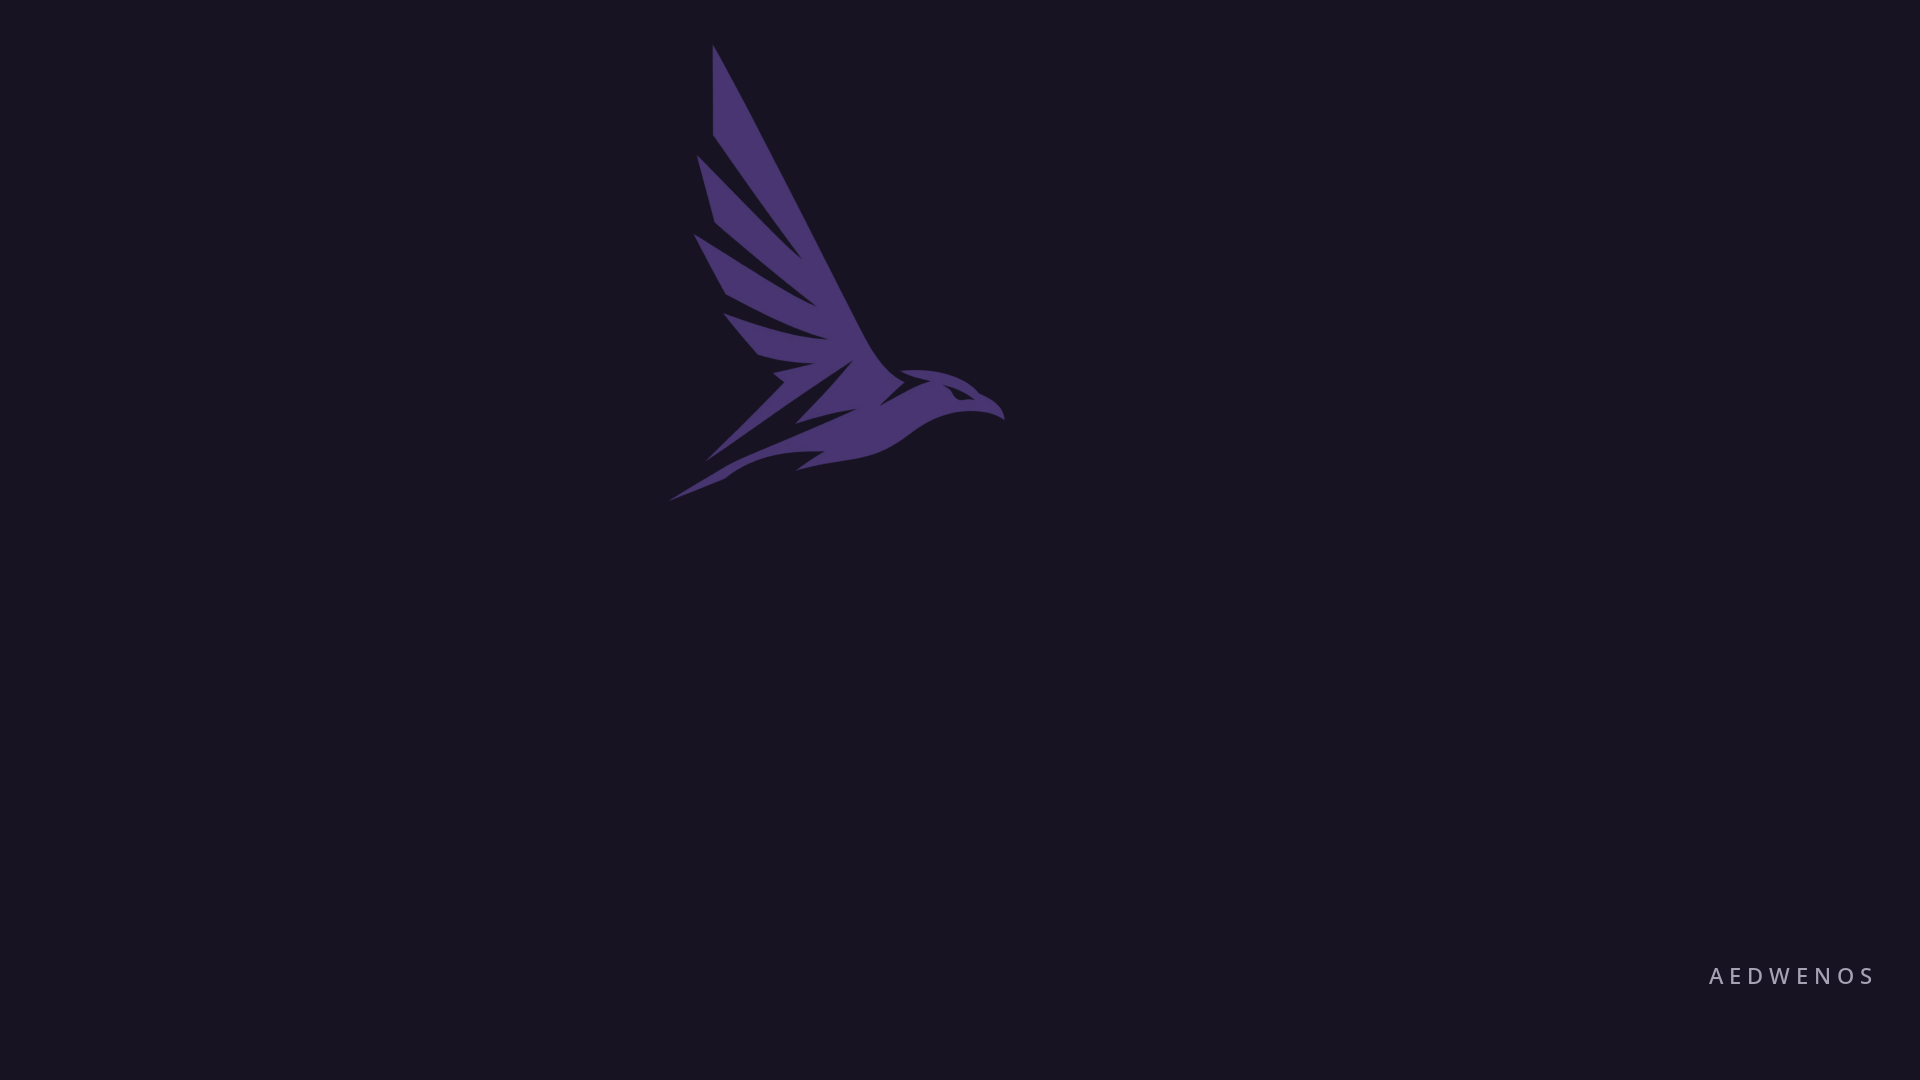
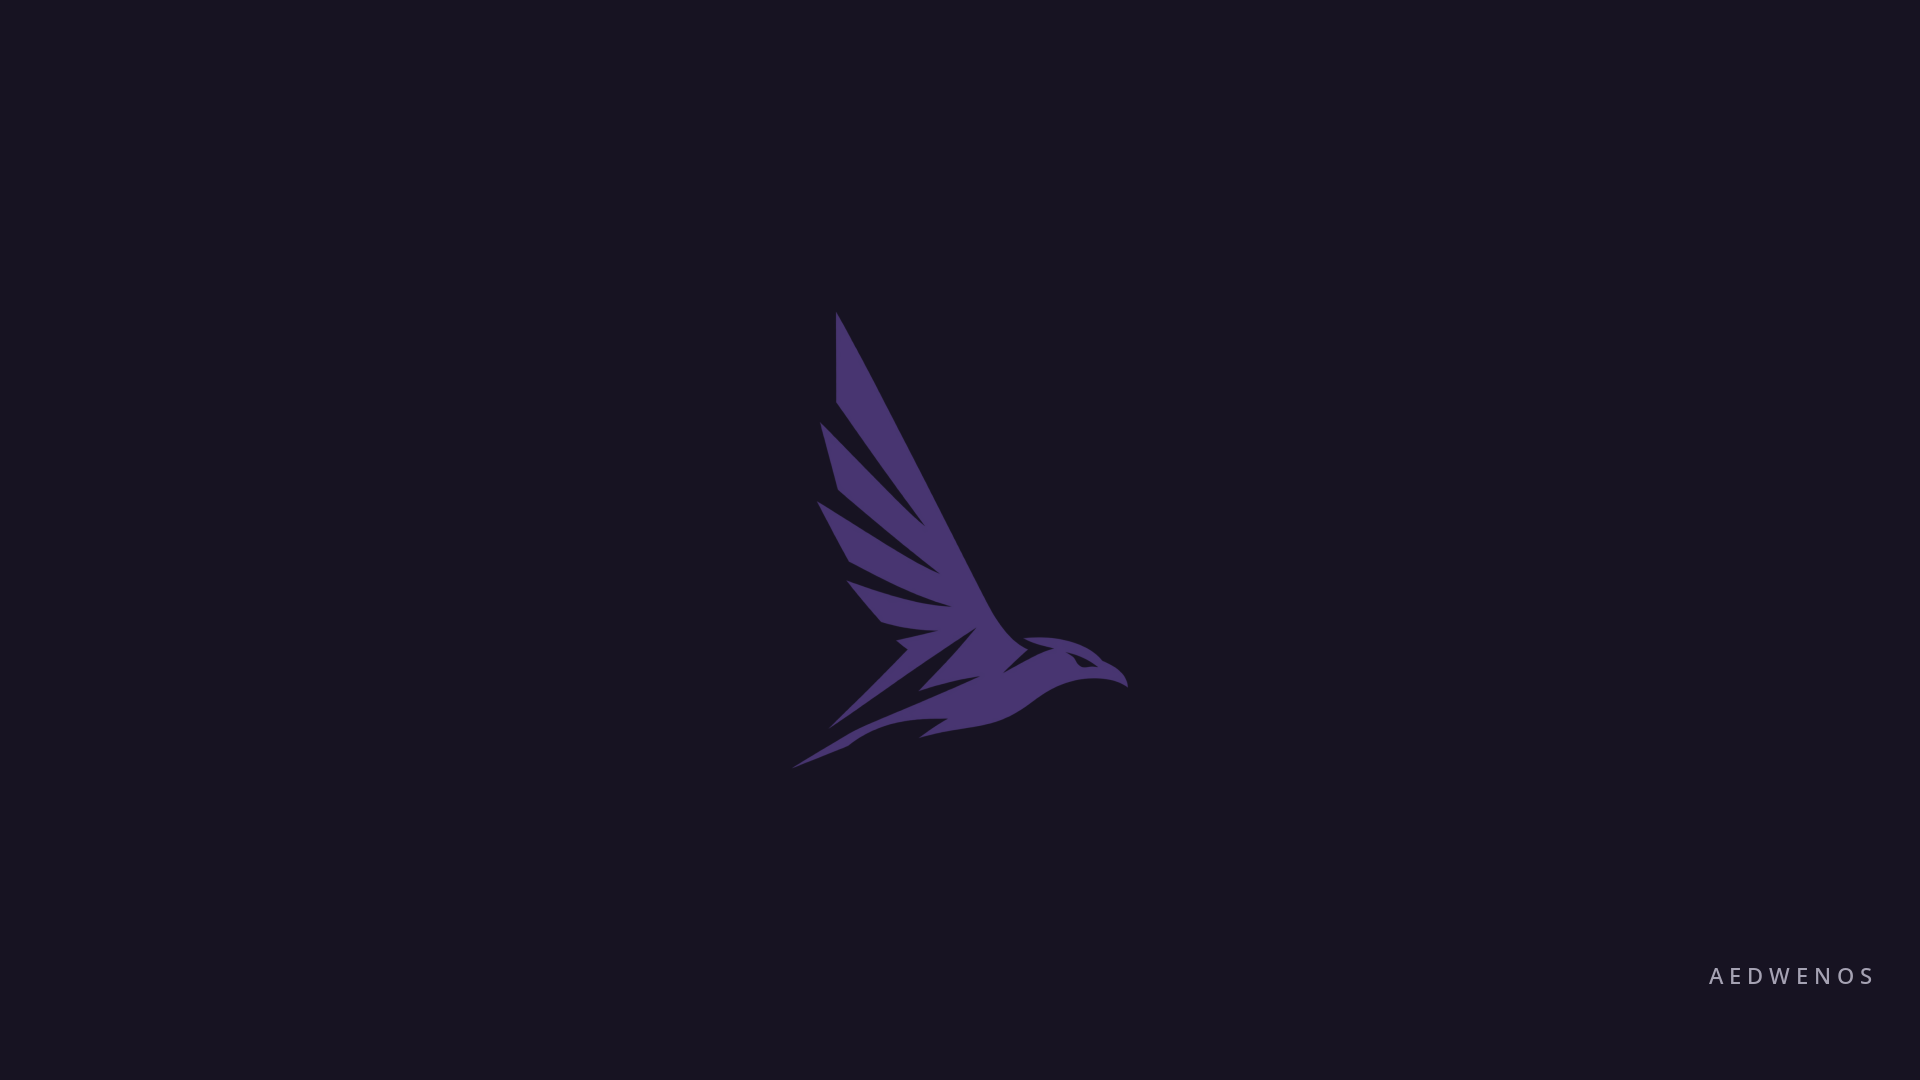
feat(ui): add dynamic gtk theme generation and appmenu support
Implement dynamic GTK theme generation in `aedwen-apps` to support
custom
accent colors beyond the pre-shipped seed themes. Add `python-cairo` and
`appmenu-gtk-module` dependencies, switch wallpaper generation to cairo,
and bump generator version.

Changed region(s): [[0.3438, 0.0611, 0.5938, 0.7028]]

diff --git a/iso/airootfs/usr/share/plasma/look-and-feel/org.kde.aedwen.desktop/contents/layouts/org.kde.plasma.desktop-layout.js b/iso/airootfs/usr/share/plasma/look-and-feel/org.kde.aedwen.desktop/contents/layouts/org.kde.plasma.desktop-layout.js
@@ -18,7 +18,7 @@ for (var j = 0; j < desktopsArray.length; j++) {
 // ---- top bar --------------------------------------------------------------
 var topBar = new Panel;
 topBar.location = "top";
-topBar.height = 44;
+topBar.height = 36;
 topBar.floating = true;
 topBar.opacity = "translucent";
 

diff --git a/scripts/generate-gtk-theme.py b/scripts/generate-gtk-theme.py
@@ -23,6 +23,10 @@ from palette_lib import (DEFAULT_SEED, SEEDS, VARIANTS, palette, palette_contras
 # use_variant() before any CSS is generated.
 R_WIN = R_INNER = R_CARD = CTL_HOVER = None
 
+# the per-user theme aedwen-apps writes for an accent that is not one of the
+# six shipped seeds
+USER_THEME = "AedwenOS-User"
+
 
 def use_variant(variant):
     global R_WIN, R_INNER, R_CARD, CTL_HOVER
@@ -388,12 +392,16 @@ switch {{
 
 
 def write_variant(out_root, seed, dark, variant, contrast="standard"):
-    use_variant(variant)
-    H = SEEDS[seed]
-    p = palette_contrast(H, dark, variant == "expressive", contrast)
     # Expressive keeps the original names; stock M3 gets a -Baseline suffix
     suffix = ("" if variant == "expressive" else "-Baseline") + ("-HighContrast" if contrast == "high" else "")
     theme_name = f"AedwenOS-{seed.capitalize()}-{'Dark' if dark else 'Light'}{suffix}"
+    return write_theme(out_root, theme_name, SEEDS[seed], seed.capitalize(), dark, variant, contrast)
+
+
+def write_theme(out_root, theme_name, H, label, dark, variant, contrast="standard"):
+    """Write one complete GTK3 + GTK4 theme directory for hue H."""
+    use_variant(variant)
+    p = palette_contrast(H, dark, variant == "expressive", contrast)
 
     for gtk_dir, css in (
         ("gtk-3.0", gtk3_css(p, dark) + (hc_css(p) if contrast == "high" else "")),
@@ -412,12 +420,12 @@ def write_variant(out_root, seed, dark, variant, contrast="standard"):
         f.write(f"""[Desktop Entry]
 Type=X-GNOME-Metatheme
 Name={theme_name}
-Comment=AedwenOS · {seed.capitalize()} ({"Dark" if dark else "Light"}), generated from the system seed colour
+Comment=AedwenOS · {label} ({"Dark" if dark else "Light"}), generated from the system seed colour
 
 [X-GNOME-Metatheme]
 GtkTheme={theme_name}
 MetacityTheme={theme_name}
-IconTheme=breeze-dark
+IconTheme=Aedwen-Icons
 CursorTheme=Aedwen
 ButtonLayout=:minimize,maximize,close
 """)
@@ -437,7 +445,17 @@ def main():
                     help="high: write the -HighContrast theme set (2px outlines, focus ring)")
     ap.add_argument("--accent", default=None,
                     help="#rrggbb accent: write only the libadwaita stylesheet for it (aedwen-apps)")
+    ap.add_argument("--user-theme-out", default=None, metavar="DIR",
+                    help="with --accent: write a complete AedwenOS-User theme (GTK3 + GTK4) "
+                         "into DIR, e.g. ~/.local/share/themes (aedwen-apps)")
+    ap.add_argument("--light", action="store_true", help="with --user-theme-out: the light theme")
     args = ap.parse_args()
+
+    if args.accent and args.user_theme_out:
+        H = srgb_hex_to_oklch(args.accent)[2]
+        write_theme(args.user_theme_out, USER_THEME, H, "Custom accent", not args.light,
+                    args.variant, args.contrast)
+        return
 
     if args.accent:
         use_variant(args.variant)

diff --git a/scripts/generate-desktop-wallpaper.py b/scripts/generate-desktop-wallpaper.py
@@ -2,8 +2,9 @@
 """
 Generate the AedwenOS default desktop wallpaper: a giant eagle watermark
 on the --wall backdrop, matching the "Desktop - Material 3" design
-(oklch(0.2 0.03 H) backdrop, oklch(0.38 0.1 H) eagle, shifted up-left of
-centre, "AedwenOS" wordmark bottom-right), plus a light variant.
+(oklch(0.2 0.03 H) backdrop, oklch(0.38 0.1 H) eagle, "AedwenOS" wordmark
+bottom-right), plus a light variant. The eagle is centred on the screen (the
+design shifts it up-left; centred reads better).
 
 Writes a Plasma "Image" wallpaper package: contents/images_dark/ (the dark
 backdrop, used with a dark colour scheme) and contents/images/ (light), each
@@ -41,6 +42,21 @@ def rgb(hexc):
     return tuple(int(hexc[i:i + 2], 16) / 255 for i in (1, 3, 5))
 
 
+def artwork_box(img):
+    """Bounding box (x0, y0, x1, y1) of the visible pixels of a cairo image:
+    the logo file has padding, and not the same on every side."""
+    w, h, stride = img.get_width(), img.get_height(), img.get_stride()
+    data = bytes(img.get_data())  # ARGB32: alpha is byte 3 of each pixel
+    xs, ys = [], []
+    for y in range(h):
+        row = data[y * stride:y * stride + w * 4][3::4]
+        hit = [x for x, a in enumerate(row) if a > 16]
+        if hit:
+            xs += [hit[0], hit[-1]]
+            ys.append(y)
+    return min(xs), ys[0], max(xs) + 1, ys[-1] + 1
+
+
 def render(path, w, h, hue, dark, eagle_img):
     s = h / 1080  # the design is drawn at 1080p
     if dark:
@@ -53,12 +69,12 @@ def render(path, w, h, hue, dark, eagle_img):
     ctx.set_source_rgb(*rgb(wall))
     ctx.paint()
 
-    # Giant eagle watermark: min(46vh, 520px), shifted up-left of centre
-    # (translate(-30%,-54%) on a centred box).
-    size = min(h * 0.46, 520 * s)
+    # Giant eagle watermark: the logo box is min(46vh, 520px) wide, placed so
+    # the visible artwork (not the padded file) is centred on the screen.
+    x0, y0, x1, y1 = artwork_box(eagle_img)
+    k = min(h * 0.46, 520 * s) / eagle_img.get_width()
     ctx.save()
-    ctx.translate(w / 2 - size * 0.8, h / 2 - size * 1.04)
-    k = size / eagle_img.get_width()
+    ctx.translate(w / 2 - (x0 + x1) / 2 * k, h / 2 - (y0 + y1) / 2 * k)
     ctx.scale(k, k)
     ctx.set_source_rgb(*rgb(eagle))
     ctx.mask_surface(eagle_img, 0, 0)  # the logo's alpha, in the eagle tone

diff --git a/scripts/palette_lib.py b/scripts/palette_lib.py
@@ -12,7 +12,7 @@ import math
 # Bump when any generator's output changes. The per-user rebuild helpers
 # (aedwen-apps, -icons, -cursors) put it in their stamp, so after an update they
 # redraw the files they keep in ~/.local/share and ~/.config.
-GENERATOR_VERSION = 2
+GENERATOR_VERSION = 3
 
 SEEDS = {"blue": 250, "violet": 295, "teal": 185, "green": 145, "amber": 70, "rose": 10}
 SEED_HEX = {

diff --git a/scripts/check-theme.py b/scripts/check-theme.py
@@ -36,7 +36,7 @@ GENERATORS = [
     ("generate-m3-shapes.py", [], None),
     ("generate-plymouth-assets.py", [], "PIL"),
     ("generate-limine-wallpaper.py", [], "PIL"),
-    ("generate-desktop-wallpaper.py", [], "PIL"),
+    ("generate-desktop-wallpaper.py", [], "cairo"),
     ("generate-icons.py", ["--all-static"], None),
     ("generate-cursors.py", ["--all-static"], "xcursorgen"),
 ]

diff --git a/docs/design-notes.md b/docs/design-notes.md
@@ -4,6 +4,19 @@ Why the system is built the way it is, and where things live. Back to the [READM
 
 ## Design notes and limitations
 
+- **What follows the theme, and what does not.** Qt 6 and KDE apps follow it
+  through the `Aedwen` widget style and the colour scheme (also for root, via
+  `/etc/xdg/kdeglobals`). GTK 3 and GTK 4 apps follow it through generated
+  themes: the shipped `AedwenOS-<Seed>-<Dark|Light>` ones for the preset
+  accents, and for any other accent, contrast or variant a per-user
+  `AedwenOS-User` theme that `aedwen-apps` writes and selects (while GTK still
+  uses an AedwenOS theme; a theme you chose yourself is left alone). Apps that
+  draw their own interface do not follow it: Firefox-based browsers (Zen),
+  Electron apps and most Flatpaks. Qt 5 apps are not styled (there is no Qt 5
+  build of the style, and none are on the ISO). A program started as root
+  through `pkexec` has no desktop environment set, so Qt does not load the KDE
+  platform theme for it; prefer the KDE-aware launchers.
+
 - **Disk encryption is not supported yet.** The bootloader entry and the
   initramfs can't unlock a LUKS root, so the installer hides the "Encrypt
   system" option in its automated modes. Calamares' manual-partitioning dialog
